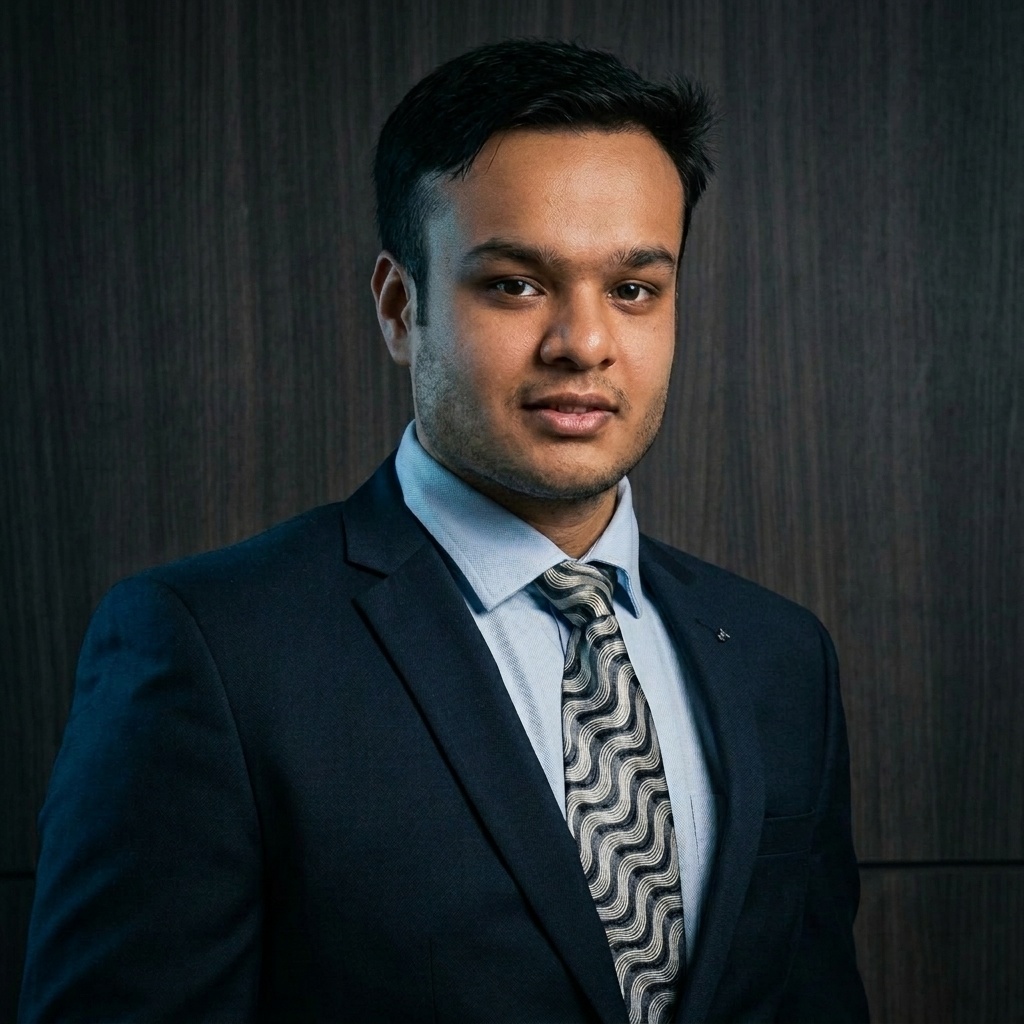
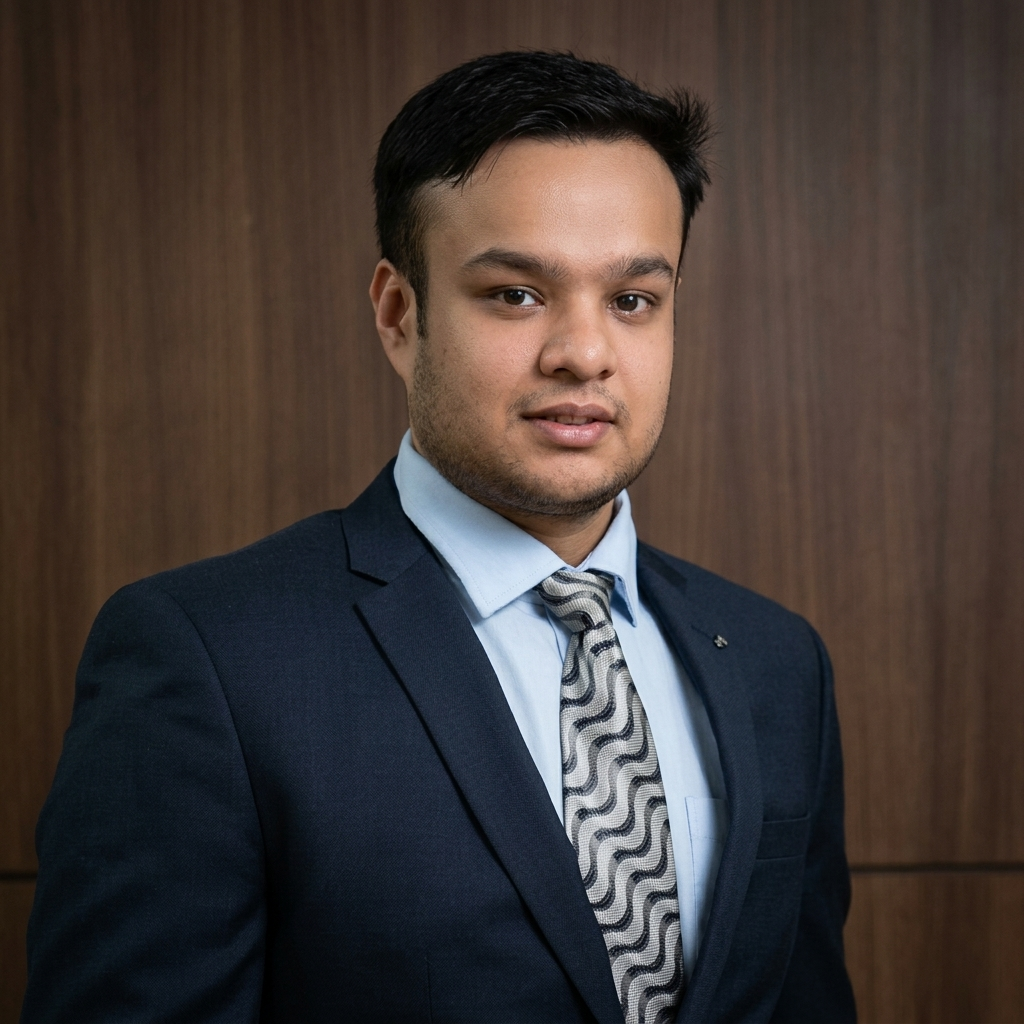
Upload naturally enhanced profile photo

diff --git a/index.html b/index.html
@@ -48,7 +48,7 @@
                 </div>
                 <div class="hero-image">
                     <div class="image-wrapper glass">
-                        <img src="assets/profile.png?v=2" alt="Sanskar Ranjan" onerror="this.src='https://ui-avatars.com/api/?name=Sanskar+Ranjan&background=0D8ABC&color=fff&size=512'">
+                        <img src="assets/profile.png?v=3" alt="Sanskar Ranjan" onerror="this.src='https://ui-avatars.com/api/?name=Sanskar+Ranjan&background=0D8ABC&color=fff&size=512'">
                     </div>
                 </div>
             </div>